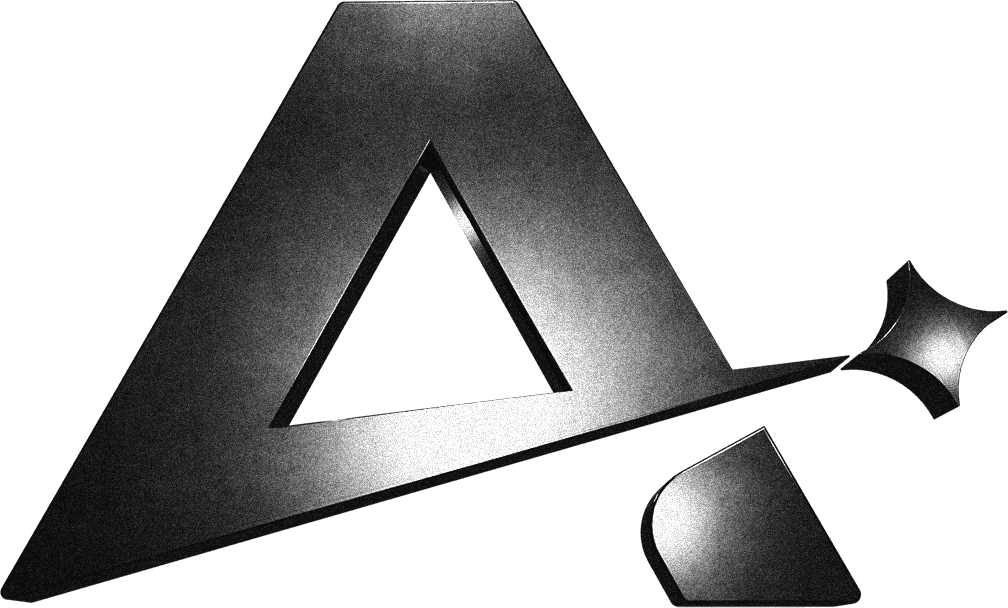
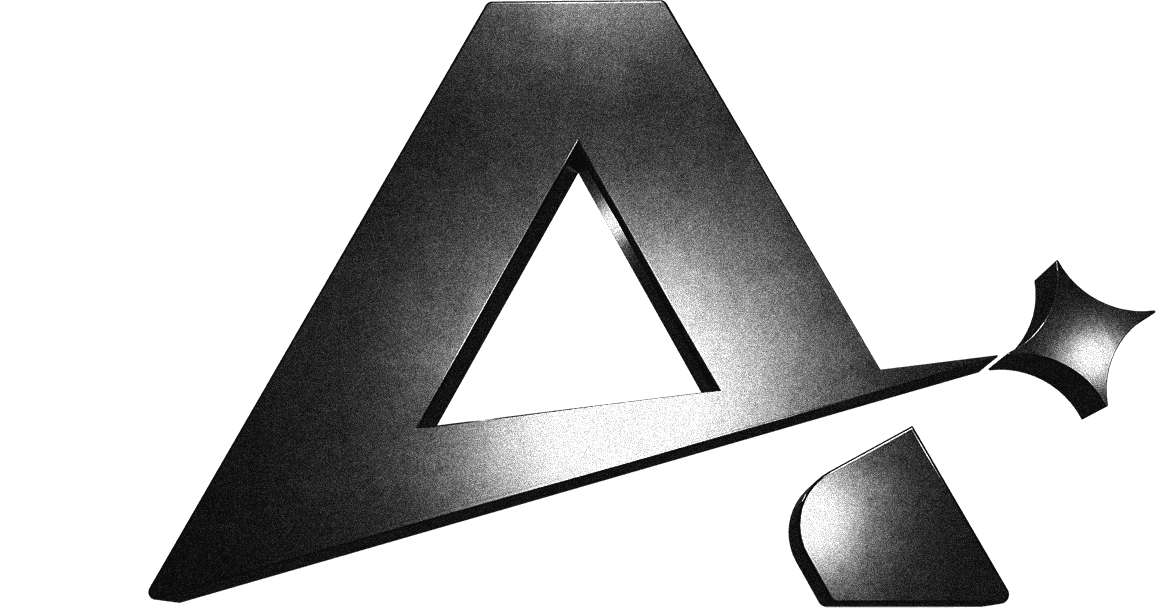
feat: ✨ ajustar hero SPADE, escalar pica metálica y nav solo redes sociales
Made-with: Cursor

diff --git a/apps/spade/src/components/spade-hero.tsx b/apps/spade/src/components/spade-hero.tsx
@@ -147,16 +147,22 @@ function SpadeNav({
         padding: '20px',
       }}
     >
-      {/* Left links (INSTAGRAM, TIKTOK) */}
+      {/* Izquierda: Instagram */}
       <div className="spade-nav-desktop" style={{ display: 'flex', gap: 28, alignItems: 'center' }}>
         {navLeft.map((link) => (
-          <a key={link.label} href={link.href} target="_blank" rel="noopener noreferrer" style={navLinkStyle}>
+          <a
+            key={link.label}
+            href={link.href}
+            target={link.external ? '_blank' : undefined}
+            rel={link.external ? 'noopener noreferrer' : undefined}
+            style={navLinkStyle}
+          >
             {link.label}
           </a>
         ))}
       </div>
 
-      {/* Right links (ABOUT, CONTACT) */}
+      {/* Derecha: TikTok */}
       <div className="spade-nav-desktop" style={{ display: 'flex', gap: 50, alignItems: 'center' }}>
         {navRight.map((link) => (
           <a
@@ -190,14 +196,8 @@ export function SpadeHero({
   heroSubtitle,
 }: SpadeHeroProps) {
   const bgSrc = heroImage || '/hero-bg.png';
-  const navLeft = [
-    { label: 'INSTAGRAM', href: instagramUrl, external: true },
-    { label: 'TIKTOK', href: tiktokUrl, external: true },
-  ];
-  const navRight = [
-    { label: 'ABOUT', href: '#about', external: false },
-    { label: 'CONTACT', href: '#contact', external: false },
-  ];
+  const navLeft = [{ label: 'INSTAGRAM', href: instagramUrl, external: true }];
+  const navRight = [{ label: 'TIKTOK', href: tiktokUrl, external: true }];
 
   return (
     <>
@@ -237,16 +237,15 @@ export function SpadeHero({
         {/* Navigation */}
         <SpadeNav navLeft={navLeft} navRight={navRight} />
 
-        {/* Top wordmark (centered) */}
+        {/* Wordmark superior: un poco más abajo, hacia el centro vertical */}
         <motion.div
-          initial={{ opacity: 0.001, scale: 0.9 }}
-          animate={{ opacity: 1, scale: 1 }}
+          initial={{ opacity: 0.001, scale: 0.9, x: '-50%' }}
+          animate={{ opacity: 1, scale: 1, x: '-50%' }}
           transition={{ duration: 3, ease: ENTRANCE_EASE }}
           style={{
             position: 'absolute',
-            top: '5.44%',
+            top: '9%',
             left: '50%',
-            transform: 'translateX(-50%)',
             zIndex: 10,
             pointerEvents: 'none',
           }}
@@ -266,21 +265,23 @@ export function SpadeHero({
           />
         </motion.div>
 
-        {/* GUADALAJARA, MX (left-aligned at padding edge) */}
+        {/* Título del hero: un poco más abajo, hacia el centro vertical */}
         <motion.p
           initial={{ opacity: 0 }}
           animate={{ opacity: 1 }}
           transition={{ delay: 0.5, duration: 1.5 }}
           style={{
             position: 'absolute',
-            top: '21.56%',
-            left: 50,
+            top: '24%',
+            left: 0,
+            right: 0,
             zIndex: 10,
-            fontFamily: 'Arial-Black, "Arial Black", sans-serif',
+            textAlign: 'center',
+            fontFamily: 'inherit',
             fontSize: 14,
-            fontWeight: 400,
+            fontWeight: 300,
             letterSpacing: '0.21px',
-            lineHeight: '16.8px',
+            lineHeight: '9px',
             color: '#ffffff',
             textTransform: 'uppercase',
             margin: 0,
@@ -290,16 +291,15 @@ export function SpadeHero({
           {heroTitle || 'GUADALAJARA, MX'}
         </motion.p>
 
-        {/* Metallic spade icon (centered) */}
+        {/* Metallic spade icon (centered) — x en motion evita que scale pise translateX */}
         <motion.div
-          initial={{ opacity: 0.001, scale: 0.9 }}
-          animate={{ opacity: 1, scale: 1 }}
+          initial={{ opacity: 0.001, scale: 0.9, x: '-50%' }}
+          animate={{ opacity: 1, scale: 1, x: '-50%' }}
           transition={{ duration: 3, ease: ENTRANCE_EASE }}
           style={{
             position: 'absolute',
-            top: '34.33%',
+            top: '341px',
             left: '50%',
-            transform: 'translateX(-50%)',
             zIndex: 10,
             pointerEvents: 'none',
           }}
@@ -307,27 +307,27 @@ export function SpadeHero({
           <Image
             src="/metallic-spade.png"
             alt="SPADE"
-            width={344}
-            height={212}
+            width={400}
+            height={247}
             priority
             style={{
-              width: 'clamp(200px, 28.7vw, 344px)',
+              width: 'clamp(235px, 34vw, 400px)',
               height: 'auto',
               objectFit: 'contain',
               display: 'block',
             }}
-            sizes="(max-width: 390px) 200px, (max-width: 810px) 280px, 344px"
+            sizes="(max-width: 390px) 235px, (max-width: 810px) 330px, 400px"
           />
         </motion.div>
 
-        {/* Address (centered) */}
+        {/* Dirección: un poco más arriba, hacia el centro vertical */}
         <motion.div
           initial={{ opacity: 0 }}
           animate={{ opacity: 1 }}
           transition={{ delay: 0.8, duration: 1.5 }}
           style={{
             position: 'absolute',
-            top: '71.67%',
+            top: '69%',
             left: 0,
             right: 0,
             zIndex: 10,
@@ -337,31 +337,32 @@ export function SpadeHero({
         >
           <p
             style={{
-              fontFamily: 'Arial-Black, "Arial Black", sans-serif',
+              // Inter sí respeta pesos; Arial Black es una sola variante “black” y casi ignora font-weight
+              fontFamily: 'inherit',
               fontSize: 14,
-              fontWeight: 400,
+              fontWeight: 300,
               letterSpacing: '0.21px',
-              lineHeight: '16.8px',
+              lineHeight: '9px',
               color: '#ffffff',
               textTransform: 'uppercase',
               margin: 0,
               whiteSpace: 'pre-line',
             }}
           >
-            {heroSubtitle || 'AV. REAL DE ACUEDUCTO 300,\nPUERTA DE HIERRO 45116'}
+            {heroSubtitle ||
+              'AV. REAL DE ACUEDUCTO 300,\n\nPUERTA DE HIERRO 45116'}
           </p>
         </motion.div>
 
-        {/* Bottom inverted wordmark (centered, rotated 180deg) */}
+        {/* Wordmark inferior invertido: un poco más arriba, hacia el centro vertical */}
         <motion.div
-          initial={{ opacity: 0.001, scale: 0.9 }}
-          animate={{ opacity: 1, scale: 1 }}
+          initial={{ opacity: 0.001, scale: 0.9, x: '-50%', rotate: 180 }}
+          animate={{ opacity: 1, scale: 1, x: '-50%', rotate: 180 }}
           transition={{ duration: 3, ease: ENTRANCE_EASE }}
           style={{
             position: 'absolute',
-            top: '89.67%',
+            top: '85.5%',
             left: '50%',
-            transform: 'translateX(-50%) rotate(180deg)',
             zIndex: 30,
             pointerEvents: 'none',
           }}

diff --git a/apps/spade/keystatic.config.ts b/apps/spade/keystatic.config.ts
@@ -28,14 +28,15 @@ export default config({
       schema: {
         heroTitle: fields.text({
           label: 'Título del Hero',
-          description: 'Título principal — ej. "DONDE LA NOCHE TOMA FORMA"',
-          defaultValue: 'DONDE LA NOCHE TOMA FORMA',
+          description: 'Título principal — ej. "GUADALAJARA, MX"',
+          defaultValue: 'GUADALAJARA, MX',
         }),
         heroSubtitle: fields.text({
           label: 'Subtítulo del Hero',
-          description: 'Texto secundario bajo el título',
+          description: 'Dirección u otro texto bajo el ícono (admite saltos de línea)',
           multiline: true,
-          defaultValue: 'Cocktails de autor, ambiente sofisticado y una noche que no olvidarás.',
+          defaultValue:
+            'AV. REAL DE ACUEDUCTO 300,\n\nPUERTA DE HIERRO 45116',
         }),
         heroImage: imageField('Imagen de Fondo del Hero', 'hero'),
         ctaText: fields.text({

diff --git a/apps/spade/app/layout.tsx b/apps/spade/app/layout.tsx
@@ -11,7 +11,7 @@ export const viewport: Viewport = {
 
 const inter = Inter({
   subsets: ['latin'],
-  weight: ['400', '500'],
+  weight: ['100', '200', '300', '400', '500'],
   display: 'swap',
 });
 
